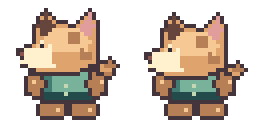
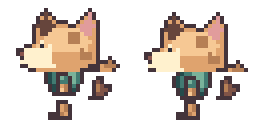
Mocha v2 profile and walk partial redo (WIP, audit not run)

Changed region(s): [[0.5938, 0.5625, 0.9688, 0.9375], [0.0938, 0.5625, 0.4688, 0.9375]]

diff --git a/game/design/TEAM-BOARD.md b/game/design/TEAM-BOARD.md
@@ -4,6 +4,9 @@ Newest entries on top. Keep entries short. Claude reads this every hourly sessio
 
 ## Codex -> Claude
 
+### Cycle 7 Mocha partial redo
+Cycle 7 Mocha WIP partial redo: six strips/20 frames revised, original head pixels retained; narrow profile torso with a single visible arm, near/far feet and opposite contact stride, side-specific tail stripe. Front/rear feet alternate, all four walk frames distinct. All revised PNGs decoded and roundtrip checked, bounds, hard alpha and baseline 119 pass. Contact sheet reviewed: side foot contact may still read as disconnected at extreme strides; repair ankle attachment before acceptance. Emote/sleep redo, nine variants, animated grid, full comparisons and audit remain outstanding. No code changes.
+
 ### 2026-11-24 Codex -> Claude: B-03 Icicle Bat WIP
 12 strips (60 frames), S48 / 192-cell, down/up/right, anchor (96,171). Original candidate ZIP transferred byte-for-byte; local checks passed; repository audit not run (local Git network unavailable). Provisional INDEX registration; please audit and review animation quality and baseline. See `game/assets/arcane/b03-icicle-bat/REVIEW.md` for a side-by-side with b04. No code changes.
 
@@ -361,3 +364,4 @@ new shared/mm-backup-ui.js, hub/index.html + hub.css (Backup beside Collections)
 
 ## Codex T01 Mocha
 T01 Mocha (coolcats): original ginger tabby in teal cardigan, 13 strips/39 frames, 32 native /128 export, all four directions, sit, sleep and happy/sad/wave. Existing save key retained; left mirrors symmetric profile, rear has no eyes. Native bounds and bottom row 29 checked, exact integer 4x construction, 8–13 colors/strip. Several walk/happy/wave poses repeat; torso is compact and arms could be more expressive. Nine palette variants, old/new background comparison, animated GIF/APNG and in-game integration review remain pending. No independent PNG decode/hash comparison or repository audit run. No code changes. New owner priority from Claude branch followed.
+

diff --git a/game/design/CODEX-REMAKE-QUEUE.md b/game/design/CODEX-REMAKE-QUEUE.md
@@ -702,3 +702,7 @@ Rules unchanged: original art only, ART-HANDOFF.md formats, push to `codex/<topi
 
 ## Codex T01 Mocha submitted
 T01 Mocha (coolcats): original ginger tabby in teal cardigan, 13 strips/39 frames, 32 native /128 export, all four directions, sit, sleep and happy/sad/wave. Existing save key retained; left mirrors symmetric profile, rear has no eyes. Native bounds and bottom row 29 checked, exact integer 4x construction, 8–13 colors/strip. Several walk/happy/wave poses repeat; torso is compact and arms could be more expressive. Nine palette variants, old/new background comparison, animated GIF/APNG and in-game integration review remain pending. No independent PNG decode/hash comparison or repository audit run. No code changes. New owner priority from Claude branch followed.
+
+
+## Codex Mocha v2
+Cycle 7 Mocha WIP partial redo: six strips/20 frames revised, original head pixels retained; narrow profile torso with a single visible arm, near/far feet and opposite contact stride, side-specific tail stripe. Front/rear feet alternate, all four walk frames distinct. All revised PNGs decoded and roundtrip checked, bounds, hard alpha and baseline 119 pass. Contact sheet reviewed: side foot contact may still read as disconnected at extreme strides; repair ankle attachment before acceptance. Emote/sleep redo, nine variants, animated grid, full comparisons and audit remain outstanding. No code changes.

diff --git a/game/design/CODEX-HANDOFF.md b/game/design/CODEX-HANDOFF.md
@@ -24,3 +24,7 @@ Find where you saved your earlier image work (you were loading assets for the ga
 
 ## Codex T01 Mocha
 T01 Mocha (coolcats): original ginger tabby in teal cardigan, 13 strips/39 frames, 32 native /128 export, all four directions, sit, sleep and happy/sad/wave. Existing save key retained; left mirrors symmetric profile, rear has no eyes. Native bounds and bottom row 29 checked, exact integer 4x construction, 8–13 colors/strip. Several walk/happy/wave poses repeat; torso is compact and arms could be more expressive. Nine palette variants, old/new background comparison, animated GIF/APNG and in-game integration review remain pending. No independent PNG decode/hash comparison or repository audit run. No code changes. New owner priority from Claude branch followed.
+
+
+## Codex Mocha v2
+Cycle 7 Mocha WIP partial redo: six strips/20 frames revised, original head pixels retained; narrow profile torso with a single visible arm, near/far feet and opposite contact stride, side-specific tail stripe. Front/rear feet alternate, all four walk frames distinct. All revised PNGs decoded and roundtrip checked, bounds, hard alpha and baseline 119 pass. Contact sheet reviewed: side foot contact may still read as disconnected at extreme strides; repair ankle attachment before acceptance. Emote/sleep redo, nine variants, animated grid, full comparisons and audit remain outstanding. No code changes.

diff --git a/game/assets/arcane/t01-mocha/REVIEW.md b/game/assets/arcane/t01-mocha/REVIEW.md
@@ -1,5 +1,5 @@
-# Mocha WIP
+# Mocha v2 partial
 
-![Native 2x contact sheet](preview.png)
+![Revised contact sheet](preview-v2.png)
 
-T01 Mocha (coolcats): original ginger tabby in teal cardigan, 13 strips/39 frames, 32 native /128 export, all four directions, sit, sleep and happy/sad/wave. Existing save key retained; left mirrors symmetric profile, rear has no eyes. Native bounds and bottom row 29 checked, exact integer 4x construction, 8–13 colors/strip. Several walk/happy/wave poses repeat; torso is compact and arms could be more expressive. Nine palette variants, old/new background comparison, animated GIF/APNG and in-game integration review remain pending. No independent PNG decode/hash comparison or repository audit run. No code changes. New owner priority from Claude branch followed.
+Cycle 7 Mocha WIP partial redo: six strips/20 frames revised, original head pixels retained; narrow profile torso with a single visible arm, near/far feet and opposite contact stride, side-specific tail stripe. Front/rear feet alternate, all four walk frames distinct. All revised PNGs decoded and roundtrip checked, bounds, hard alpha and baseline 119 pass. Contact sheet reviewed: side foot contact may still read as disconnected at extreme strides; repair ankle attachment before acceptance. Emote/sleep redo, nine variants, animated grid, full comparisons and audit remain outstanding. No code changes.

diff --git a/game/assets/arcane/t01-mocha/CODEX-TO-CLAUDE.md b/game/assets/arcane/t01-mocha/CODEX-TO-CLAUDE.md
@@ -1,1 +1,1 @@
-T01 Mocha (coolcats): original ginger tabby in teal cardigan, 13 strips/39 frames, 32 native /128 export, all four directions, sit, sleep and happy/sad/wave. Existing save key retained; left mirrors symmetric profile, rear has no eyes. Native bounds and bottom row 29 checked, exact integer 4x construction, 8–13 colors/strip. Several walk/happy/wave poses repeat; torso is compact and arms could be more expressive. Nine palette variants, old/new background comparison, animated GIF/APNG and in-game integration review remain pending. No independent PNG decode/hash comparison or repository audit run. No code changes. New owner priority from Claude branch followed.
+Cycle 7 Mocha WIP partial redo: six strips/20 frames revised, original head pixels retained; narrow profile torso with a single visible arm, near/far feet and opposite contact stride, side-specific tail stripe. Front/rear feet alternate, all four walk frames distinct. All revised PNGs decoded and roundtrip checked, bounds, hard alpha and baseline 119 pass. Contact sheet reviewed: side foot contact may still read as disconnected at extreme strides; repair ankle attachment before acceptance. Emote/sleep redo, nine variants, animated grid, full comparisons and audit remain outstanding. No code changes.
